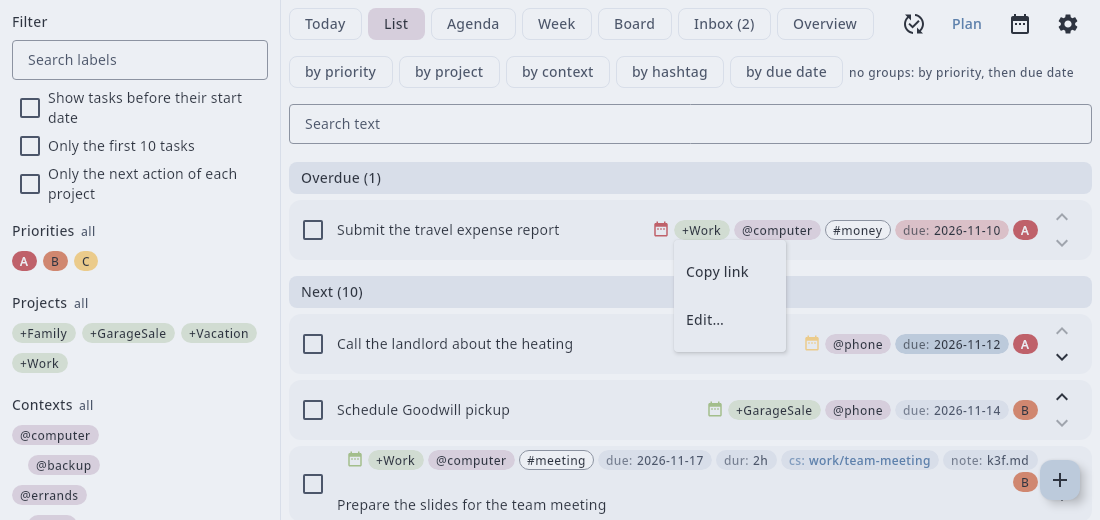
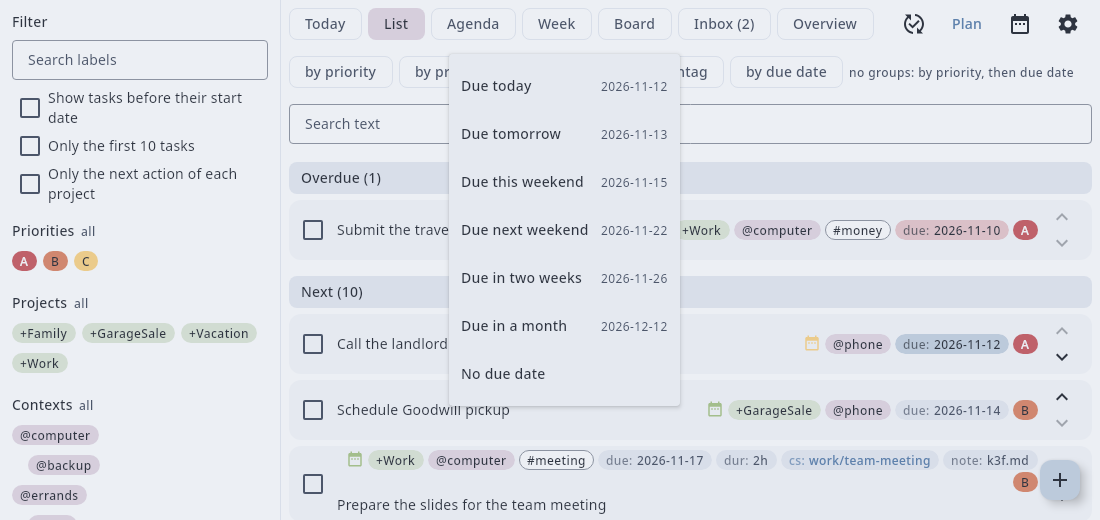
Open the task menu at the pointer and offer Focus in Outlook
A right-click on a task card opened the due-date menu at the right end of the labels, far from the pointer on a wide window; it now opens where the click was. For a task tied to an Outlook item, the menu offers to show that item in Outlook.

diff --git a/app/src/commonMain/kotlin/io/github/koppor/koppter/ui/TaskList.kt b/app/src/commonMain/kotlin/io/github/koppor/koppter/ui/TaskList.kt
@@ -40,6 +40,8 @@ import androidx.compose.ui.layout.boundsInRoot
 import androidx.compose.ui.layout.onGloballyPositioned
 import androidx.compose.ui.layout.positionInRoot
 import androidx.compose.ui.unit.IntOffset
+import androidx.compose.ui.unit.round
+import androidx.compose.ui.platform.LocalUriHandler
 import kotlin.math.roundToInt
 import androidx.compose.foundation.horizontalScroll
 import androidx.compose.foundation.layout.fillMaxHeight
@@ -291,59 +293,70 @@ private fun DragMarks(state: CardDrag<*>, description: String?, line: Pair<Rect,
 fun TaskCard(entry: Entry, today: LocalDate, onToggle: () -> Unit, onOpen: () -> Unit, trailing: @Composable () -> Unit = {}) {
     val task = entry.task
     var dueMenu by remember { mutableStateOf(false) }
+    // Where the secondary click was, in the coordinates of the card; `null` while the menu belongs to the label of the due date.
+    var menuAt by remember { mutableStateOf<IntOffset?>(null) }
     // [impl->dsn~due-menu~1]
     val secondaryClick = Modifier.pointerInput(Unit) {
         awaitPointerEventScope {
             while (true) {
                 val event = awaitPointerEvent()
                 // Not a click that a label took for its own menu.
-                if (event.type == PointerEventType.Press && event.buttons.isSecondaryPressed && event.changes.none { it.isConsumed }) dueMenu = true
+                if (event.type == PointerEventType.Press && event.buttons.isSecondaryPressed && event.changes.none { it.isConsumed }) {
+                    menuAt = event.changes.first().position.round()
+                    dueMenu = true
+                }
             }
         }
     }
-    Card(onClick = onOpen, modifier = Modifier.fillMaxWidth().then(secondaryClick).testTag("task")) {
-        Row(Modifier.padding(end = 10.dp, top = 4.dp, bottom = 4.dp), verticalAlignment = Alignment.CenterVertically) {
-            Checkbox(checked = task.completed, onCheckedChange = { onToggle() }, modifier = Modifier.testTag("task-done"))
-            // [impl->dsn~task-card~1]
-            // In one line where the description and the labels fit next to each other, so that the description stands
-            // at the height of the checkbox; otherwise the labels above the description, each with the whole width.
-            Layout(
-                content = {
-                    FlowRow(
-                        modifier = Modifier.testTag("task-labels"),
-                        horizontalArrangement = Arrangement.spacedBy(4.dp, Alignment.End),
-                        verticalArrangement = Arrangement.spacedBy(2.dp),
-                    ) {
-                        TaskLabels(task, today, onDue = { dueMenu = true })
+    Box(Modifier.fillMaxWidth()) {
+        menuAt?.let { at -> Box(Modifier.offset { at }) { DueMenu(dueMenu, entry, today) { dueMenu = false } } }
+        Card(onClick = onOpen, modifier = Modifier.fillMaxWidth().then(secondaryClick).testTag("task")) {
+            Row(Modifier.padding(end = 10.dp, top = 4.dp, bottom = 4.dp), verticalAlignment = Alignment.CenterVertically) {
+                Checkbox(checked = task.completed, onCheckedChange = { onToggle() }, modifier = Modifier.testTag("task-done"))
+                // [impl->dsn~task-card~1]
+                // In one line where the description and the labels fit next to each other, so that the description stands
+                // at the height of the checkbox; otherwise the labels above the description, each with the whole width.
+                Layout(
+                    content = {
+                        FlowRow(
+                            modifier = Modifier.testTag("task-labels"),
+                            horizontalArrangement = Arrangement.spacedBy(4.dp, Alignment.End),
+                            verticalArrangement = Arrangement.spacedBy(2.dp),
+                        ) {
+                            TaskLabels(task, today, onDue = {
+                                menuAt = null
+                                dueMenu = true
+                            })
+                        }
+                        // Without a size at the right end below the labels, so that the menu opens below the label of the due date.
+                        Box { if (menuAt == null) DueMenu(dueMenu, entry, today) { dueMenu = false } }
+                        LinkedText(
+                            task.description,
+                            modifier = Modifier.padding(vertical = 3.dp).testTag("task-description"),
+                            style = MaterialTheme.typography.bodyLarge,
+                            textDecoration = if (task.completed) TextDecoration.LineThrough else null,
+                            color = if (task.completed) MaterialTheme.colorScheme.onSurfaceVariant else MaterialTheme.colorScheme.onSurface,
+                        )
+                    },
+                    modifier = Modifier.weight(1f),
+                ) { (labels, menu, description), constraints ->
+                    val width = constraints.maxWidth
+                    val loose = constraints.copy(minWidth = 0, minHeight = 0)
+                    val gap = 8.dp.roundToPx()
+                    val placedLabels = labels.measure(loose)
+                    val oneLine = placedLabels.width + gap + description.maxIntrinsicWidth(Constraints.Infinity) <= width
+                    val placedDescription = description.measure(if (oneLine) loose.copy(maxWidth = width - placedLabels.width - gap) else loose)
+                    val placedMenu = menu.measure(loose)
+                    val height = if (oneLine) max(placedLabels.height, placedDescription.height) else placedLabels.height + placedDescription.height
+                    layout(width, height) {
+                        val labelsTop = if (oneLine) (height - placedLabels.height) / 2 else 0
+                        placedLabels.placeRelative(width - placedLabels.width, labelsTop)
+                        placedMenu.placeRelative(width, labelsTop + placedLabels.height)
+                        placedDescription.placeRelative(0, if (oneLine) (height - placedDescription.height) / 2 else placedLabels.height)
                     }
-                    // Without a size at the right end below the labels, so that the menu opens below the label of the due date.
-                    Box { DueMenu(dueMenu, entry, today) { dueMenu = false } }
-                    LinkedText(
-                        task.description,
-                        modifier = Modifier.padding(vertical = 3.dp).testTag("task-description"),
-                        style = MaterialTheme.typography.bodyLarge,
-                        textDecoration = if (task.completed) TextDecoration.LineThrough else null,
-                        color = if (task.completed) MaterialTheme.colorScheme.onSurfaceVariant else MaterialTheme.colorScheme.onSurface,
-                    )
-                },
-                modifier = Modifier.weight(1f),
-            ) { (labels, menu, description), constraints ->
-                val width = constraints.maxWidth
-                val loose = constraints.copy(minWidth = 0, minHeight = 0)
-                val gap = 8.dp.roundToPx()
-                val placedLabels = labels.measure(loose)
-                val oneLine = placedLabels.width + gap + description.maxIntrinsicWidth(Constraints.Infinity) <= width
-                val placedDescription = description.measure(if (oneLine) loose.copy(maxWidth = width - placedLabels.width - gap) else loose)
-                val placedMenu = menu.measure(loose)
-                val height = if (oneLine) max(placedLabels.height, placedDescription.height) else placedLabels.height + placedDescription.height
-                layout(width, height) {
-                    val labelsTop = if (oneLine) (height - placedLabels.height) / 2 else 0
-                    placedLabels.placeRelative(width - placedLabels.width, labelsTop)
-                    placedMenu.placeRelative(width, labelsTop + placedLabels.height)
-                    placedDescription.placeRelative(0, if (oneLine) (height - placedDescription.height) / 2 else placedLabels.height)
                 }
+                trailing()
             }
-            trailing()
         }
     }
 }
@@ -373,6 +386,8 @@ private fun GroupHeading(group: Group, priorities: Boolean, modifier: Modifier) 
 @Composable
 private fun DueMenu(expanded: Boolean, entry: Entry, today: LocalDate, onDismiss: () -> Unit) {
     val setDue = LocalSetDue.current
+    // Read outside the menu: its popup gets the handler of the platform, not the one of the application.
+    val uriHandler = LocalUriHandler.current
     DropdownMenu(expanded, onDismissRequest = onDismiss, modifier = Modifier.testTag("due-menu")) {
         for ((title, date) in dueChoices(today)) {
             DropdownMenuItem(
@@ -383,6 +398,17 @@ private fun DueMenu(expanded: Boolean, entry: Entry, today: LocalDate, onDismiss
                     setDue(entry, date)
                 },
                 modifier = Modifier.testTag("due-$date"),
+            )
+        }
+        // [impl->dsn~outlook-tag~1]
+        entry.task.tag(Task.OUTLOOK)?.let(Outlook::entryId)?.let { entryId ->
+            DropdownMenuItem(
+                text = { Text("Focus in Outlook") },
+                onClick = {
+                    onDismiss()
+                    uriHandler.openUri(Outlook.anchor(entryId))
+                },
+                modifier = Modifier.testTag("menu-outlook"),
             )
         }
         // A task that is due on its deadline has no due date to take away.

diff --git a/app/src/desktopTest/kotlin/io/github/koppor/koppter/ui/AppTest.kt b/app/src/desktopTest/kotlin/io/github/koppor/koppter/ui/AppTest.kt
@@ -257,6 +257,8 @@ class AppTest {
         onNodeWithText("Thank Mom").performMouseInput { rightClick() }
         onNodeWithTag("due-2026-12-12").assertExists()
         onNodeWithTag("due-none").assertDoesNotExist()
+        // A task without an item of Outlook is not offered to show one.
+        onNodeWithTag("menu-outlook").assertDoesNotExist()
     }
 
     // [utest->dsn~deadline~1]
@@ -1189,6 +1191,7 @@ class AppTest {
     // [utest->dsn~outlook-items~1]
     // [utest->dsn~outlook-tag~1]
     // [utest->dsn~outlook-complete~1]
+    // [utest->dsn~due-menu~1]
     @Test
     fun theItemsOfOutlookAreShownAndBecomeALineWhenOneGetsAContext() = runComposeUiTest {
         val mail = "00000000A1B2C3D4"
@@ -1210,6 +1213,11 @@ class AppTest {
         assertEquals(1, opened.size)
         assertTrue(opened.single() in setOf(mail, task))
         onNodeWithTag("edit-dialog").assertDoesNotExist()
+        // So does the menu of the card.
+        onNodeWithText("Book the hotel", useUnmergedTree = true).performMouseInput { rightClick() }
+        onNodeWithTag("menu-outlook").assertTextEquals("Focus in Outlook").performClick()
+        assertEquals(task, opened.last())
+        onNodeWithTag("due-menu").assertDoesNotExist()
 
         // In the inbox, the item shows where it comes from, and the contexts below it are choices.
         controller.view = View.INBOX

diff --git a/app/src/desktopTest/kotlin/io/github/koppor/koppter/ui/ScreenshotTest.kt b/app/src/desktopTest/kotlin/io/github/koppor/koppter/ui/ScreenshotTest.kt
@@ -309,7 +309,7 @@ class ScreenshotTest {
     @Test
     fun rendersDueMenu() = runDesktopComposeUiTest(width = 1100, height = 520) {
         start()
-        onNodeWithText("Submit the travel expense report").performMouseInput { rightClick() }
+        onAllNodesWithTag("task-description", useUnmergedTree = true)[0].performMouseInput { rightClick() }
         save("due-menu.png")
     }
 

diff --git a/docs/requirements/ui.md b/docs/requirements/ui.md
@@ -592,9 +592,11 @@ Needs: impl, utest
 ### Menu of the due date
 `dsn~due-menu~1`
 
-A click with the secondary mouse button on a task card, or a click on the label of its due date, opens a menu with the days of `dueChoices`: today, tomorrow, this weekend, in three days, next weekend, in two weeks and in a month, each day once and in the order of the days; a weekend stands for its Sunday.
+A click with the secondary mouse button on a task card opens a menu at the pointer; a click on the label of its due date opens it below the label.
+The menu offers the days of `dueChoices`: today, tomorrow, this weekend, in three days, next weekend, in two weeks and in a month, each day once and in the order of the days; a weekend stands for its Sunday.
 A weekend and a week end on their Sunday, as in the dates that are typed in words.
 Choosing a day calls `TodoController.setDue`, which sets the `due:` tag and leaves the rest of the line as it is.
+For a task that names an item of Outlook in its tag `ol:`, *Focus in Outlook* follows the days and shows the item in Outlook, as the label *Outlook* does.
 For a task with a due date, the menu ends with *No due date*, which removes the tag.
 The cards of the board and of the agenda are the same `TaskCard` and have the menu as well.
 

diff --git a/CHANGELOG.md b/CHANGELOG.md
@@ -14,6 +14,7 @@ and this project adheres to [Calendar Versioning](https://calver.org/) with the 
 
 ### Changed
 
+- The menu of a task opens at the mouse pointer. For a task from Outlook, it offers *Focus in Outlook*.
 - The buttons for a new task and for the search slide away while the list is scrolled down, so that they cover no task, and return when it is scrolled up or at its end.
 - The editor of a time map paints half hours instead of quarters of an hour, and a press on the chosen color erases it. A button in the field of its dates picks a date from a calendar and puts it in at the cursor.
 - In the dialog of a task, the fields to add a project, a context or a hashtag stand one below the other at the right, and the search fields of *Waits for* and *Before* start at the same place.
